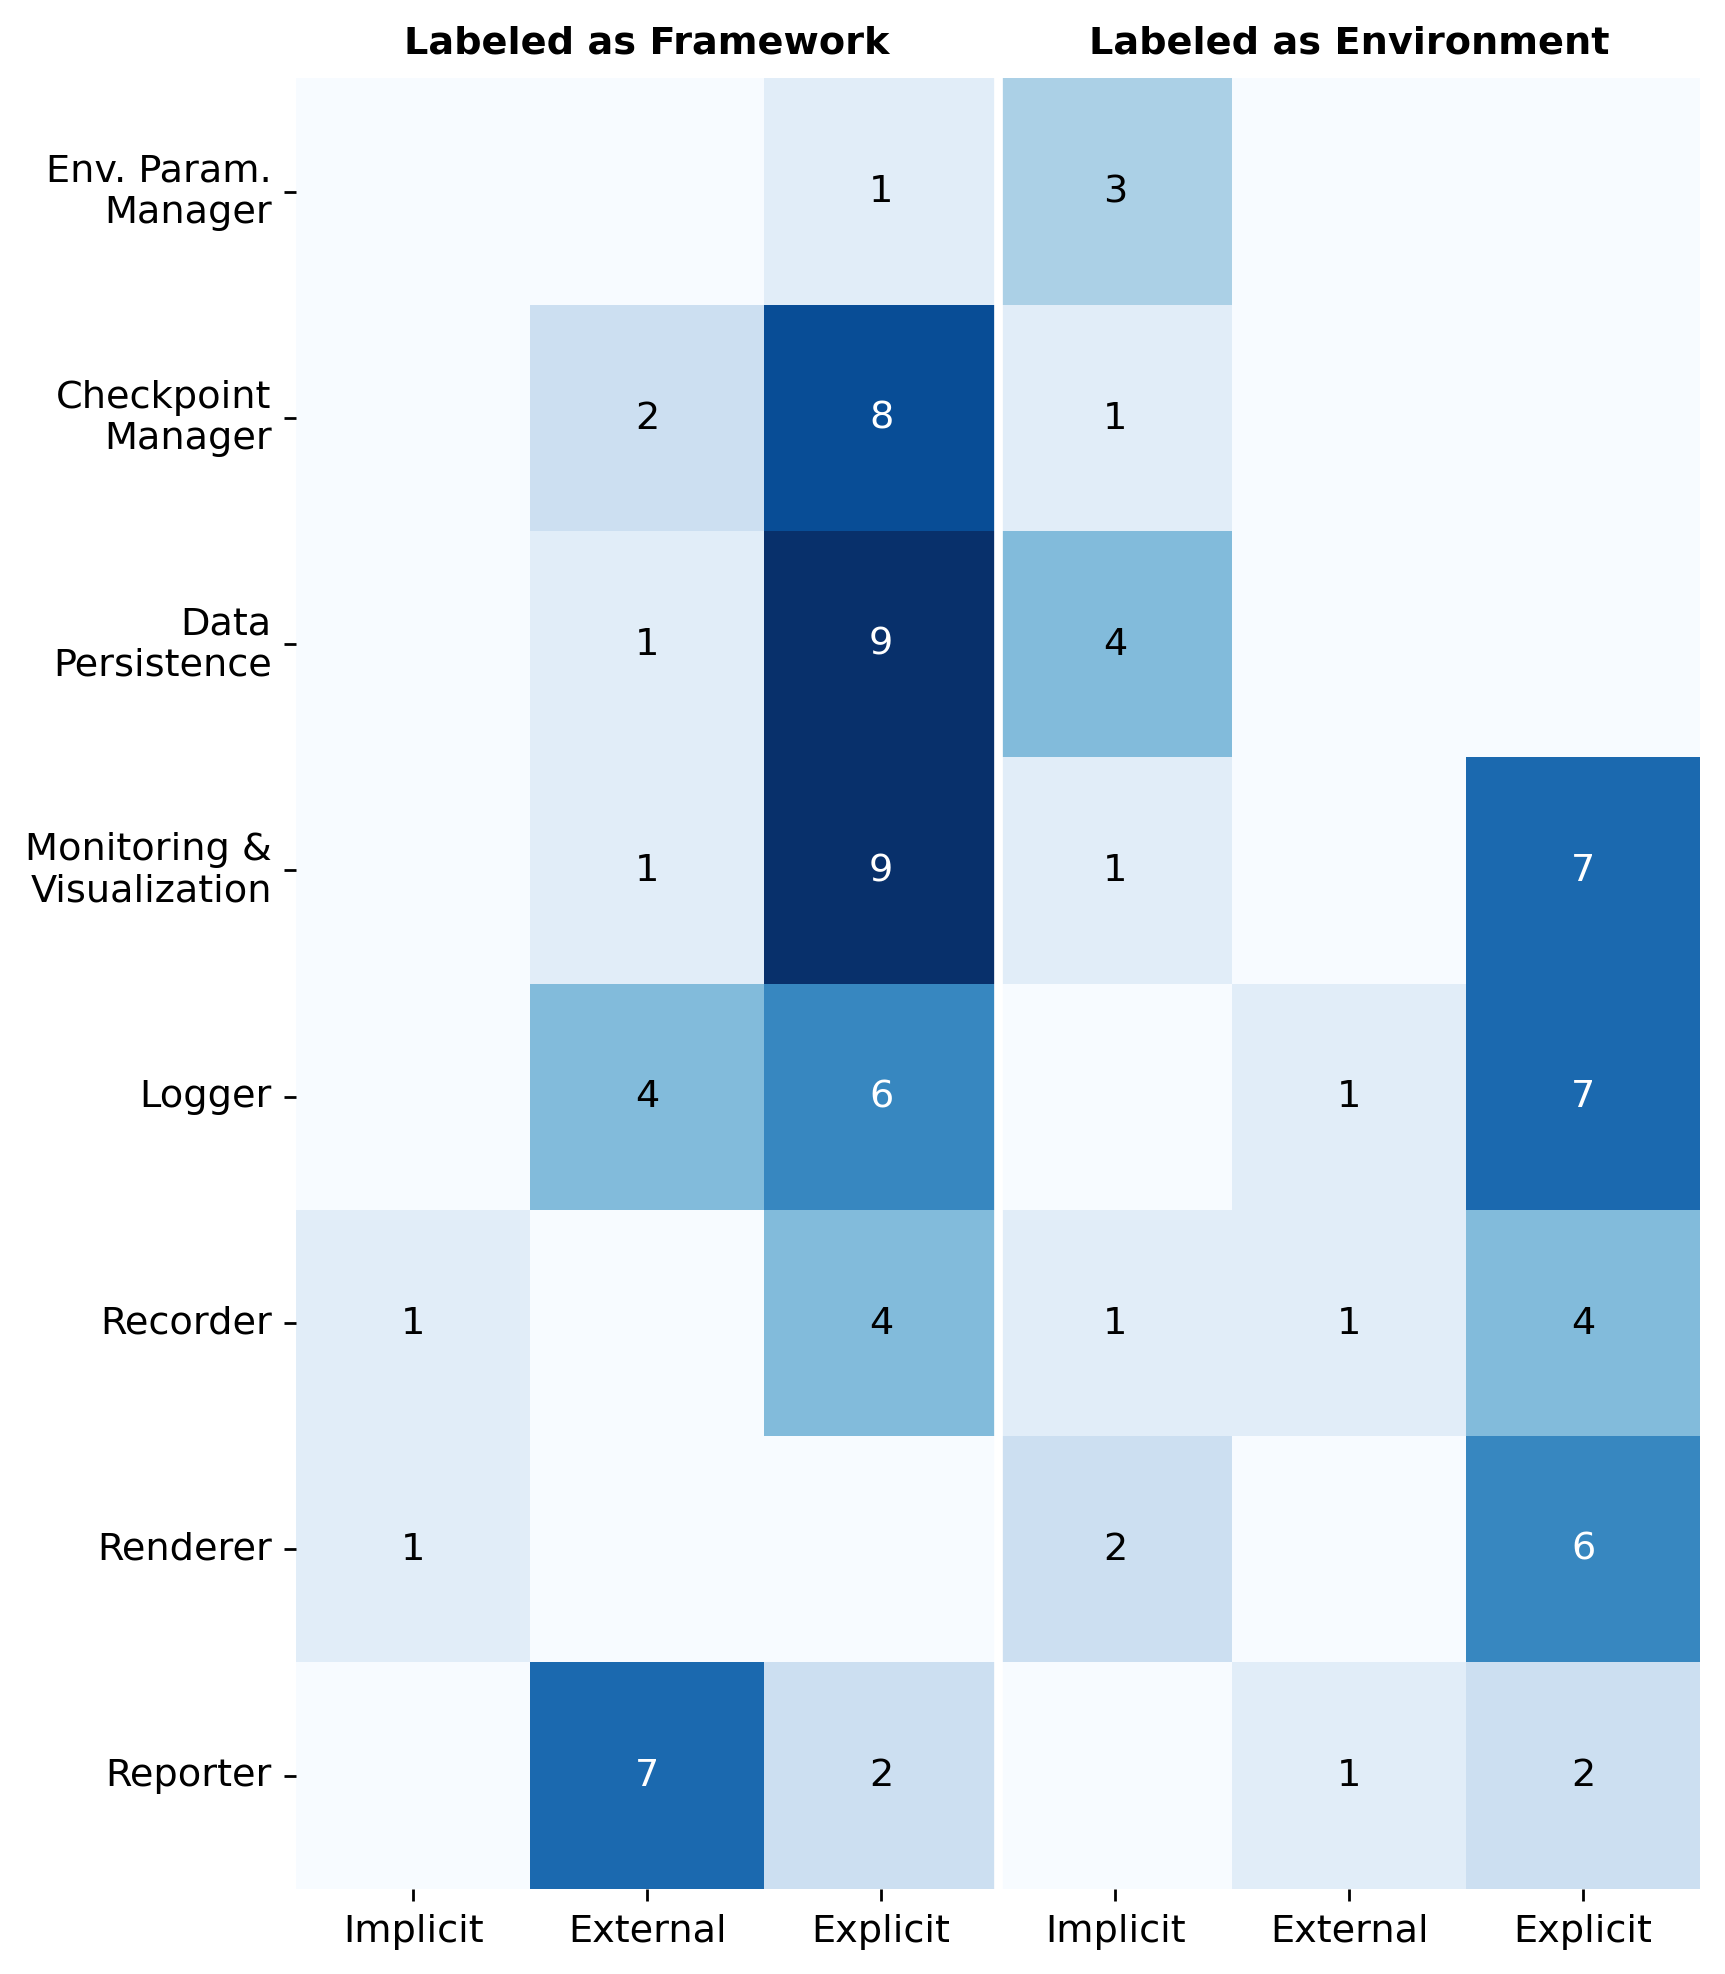
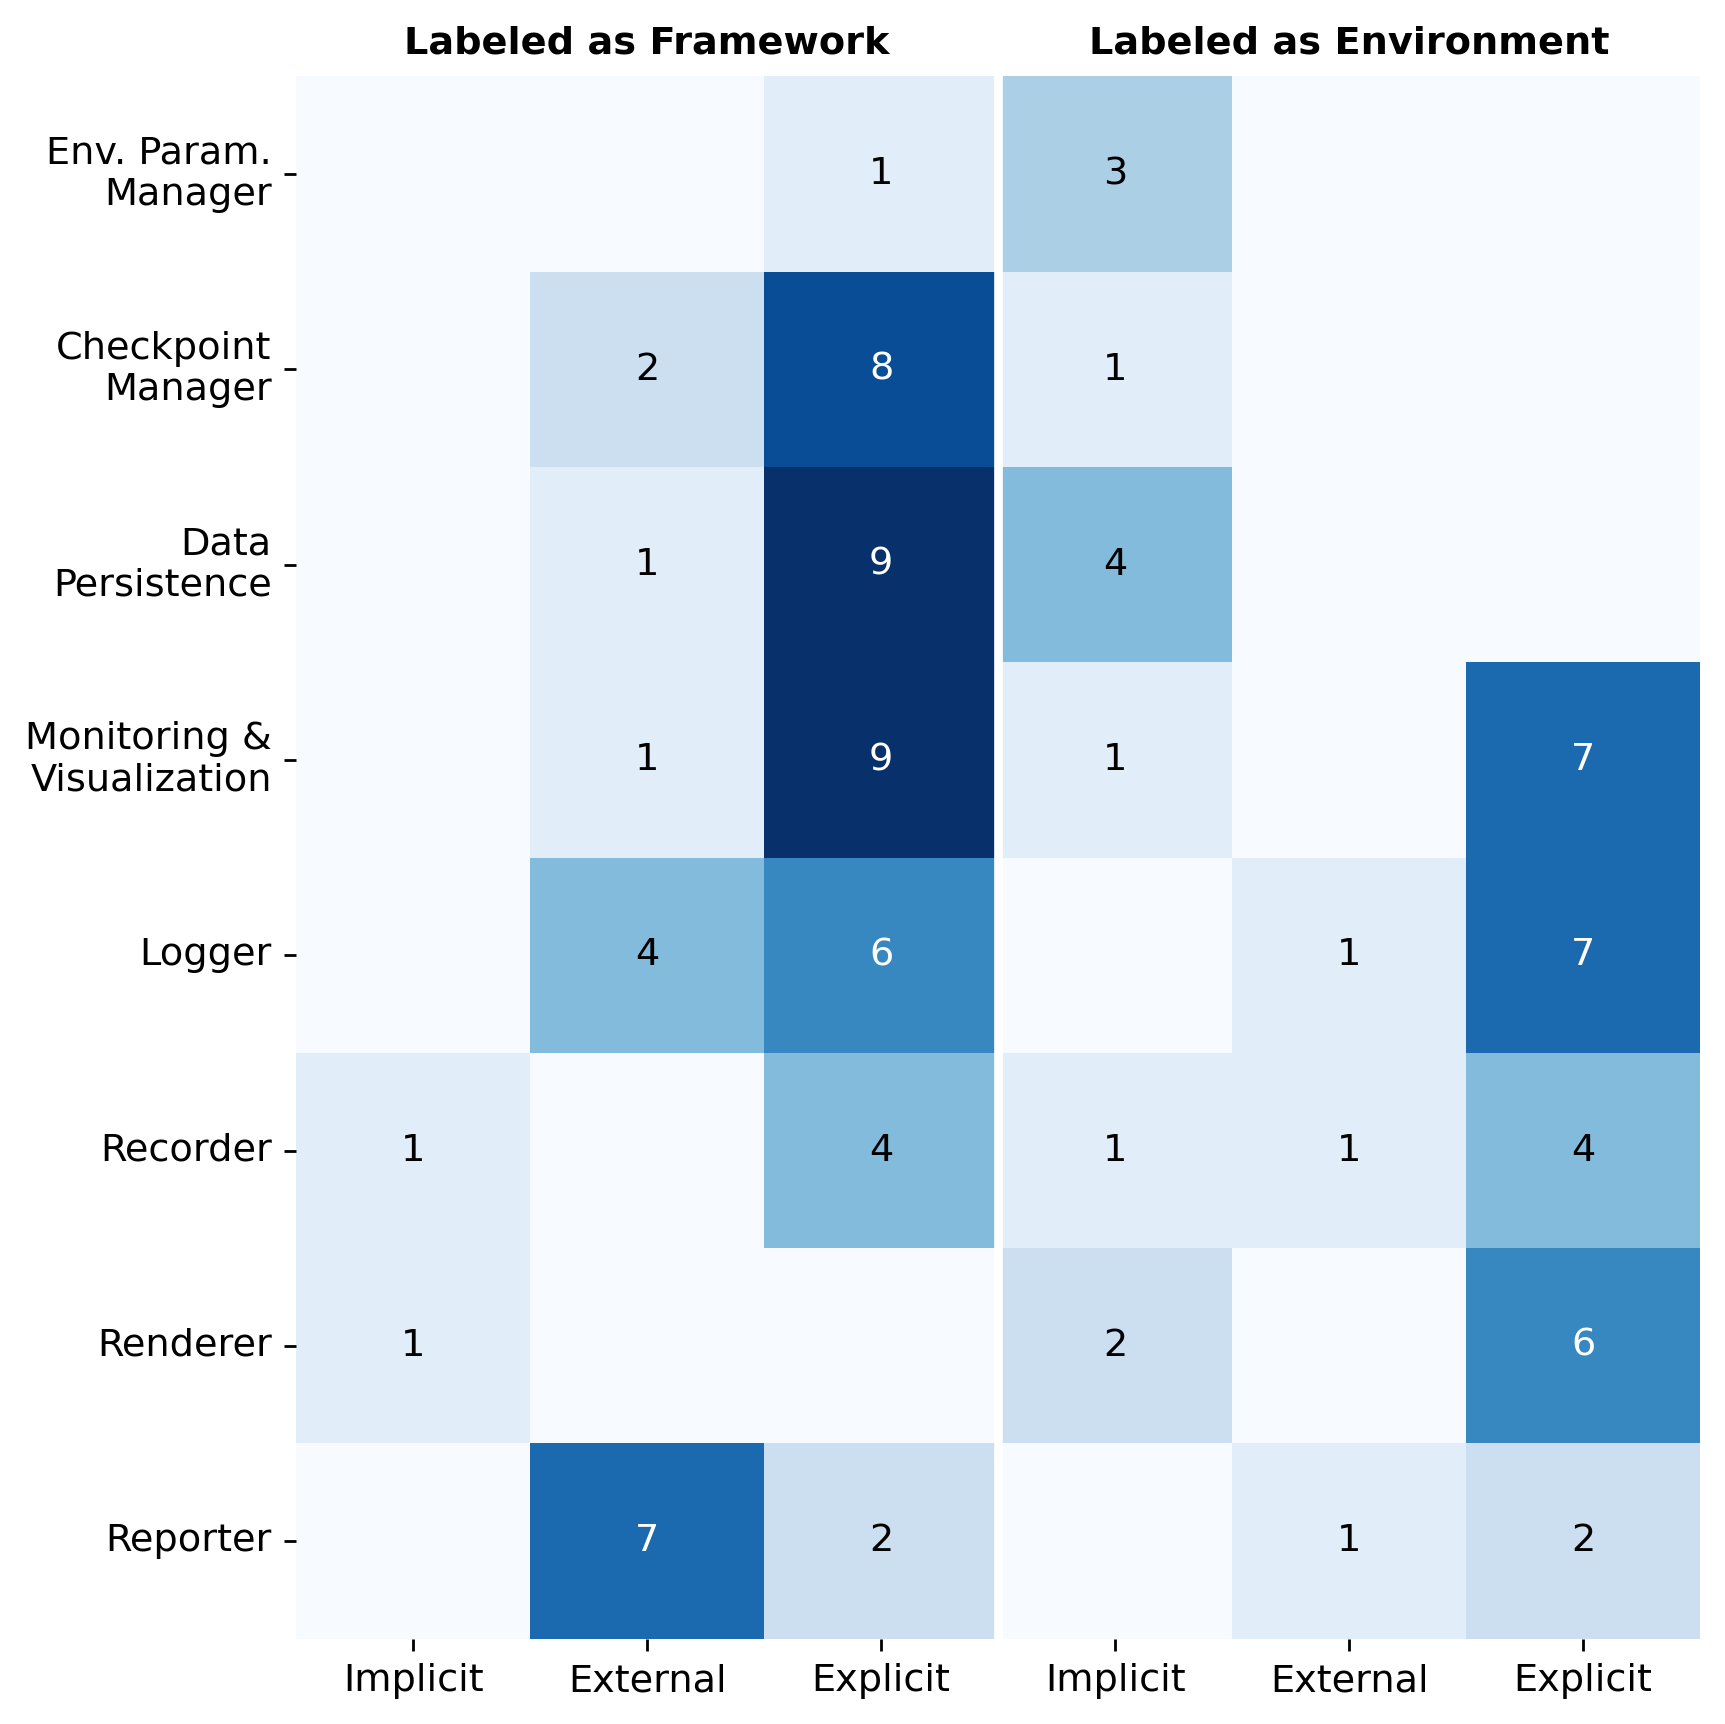
update the fig size

diff --git a/03-analysis/heatmap_generator.py b/03-analysis/heatmap_generator.py
@@ -196,7 +196,7 @@ def build_heatmap_df(keep_components,manual_order=None):
 
 def plot_heatmap(df):
     df = df.rename(index=COMPONENT_RENAME)
-    fig, ax = plt.subplots(figsize=(7, 8))
+    fig, ax = plt.subplots(figsize=(7, 7))
 
     sns.heatmap(df, ax=ax, fmt="d", cmap="Blues", cbar=False, vmin=0)
     for r in range(df.shape[0]):
